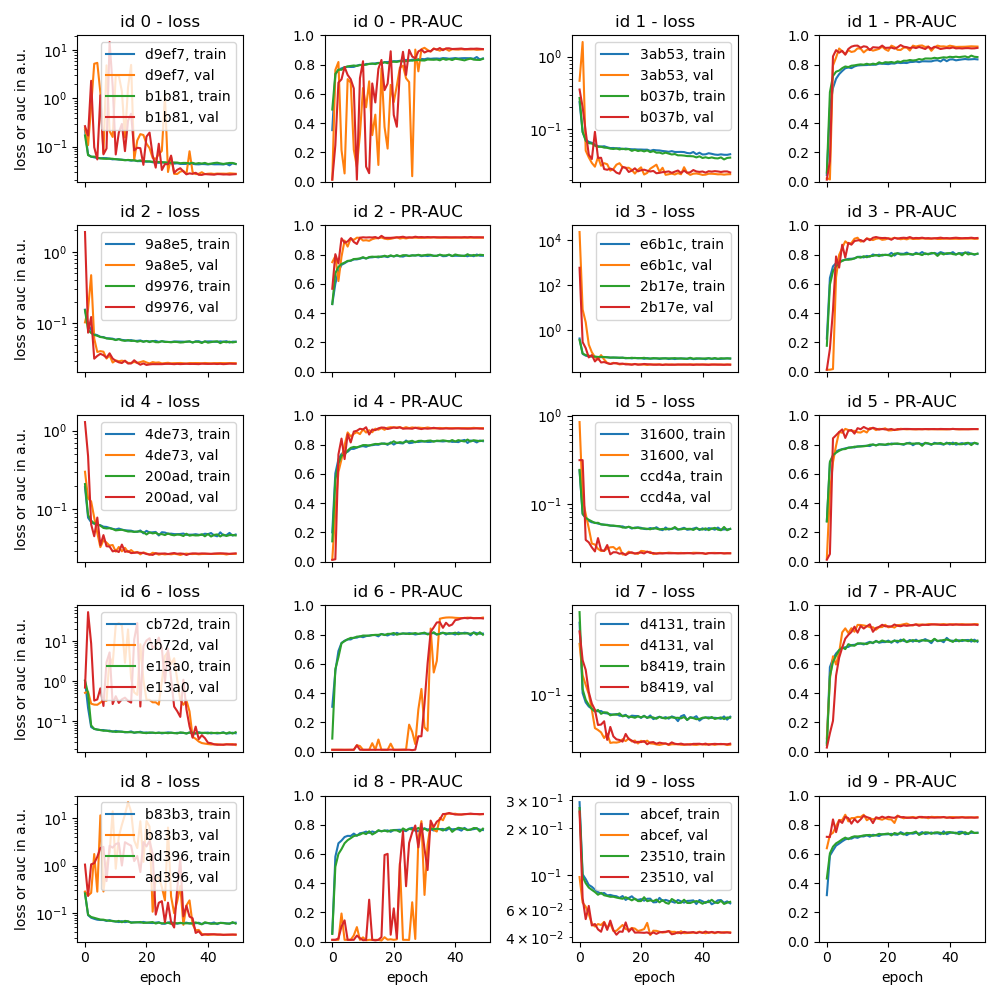
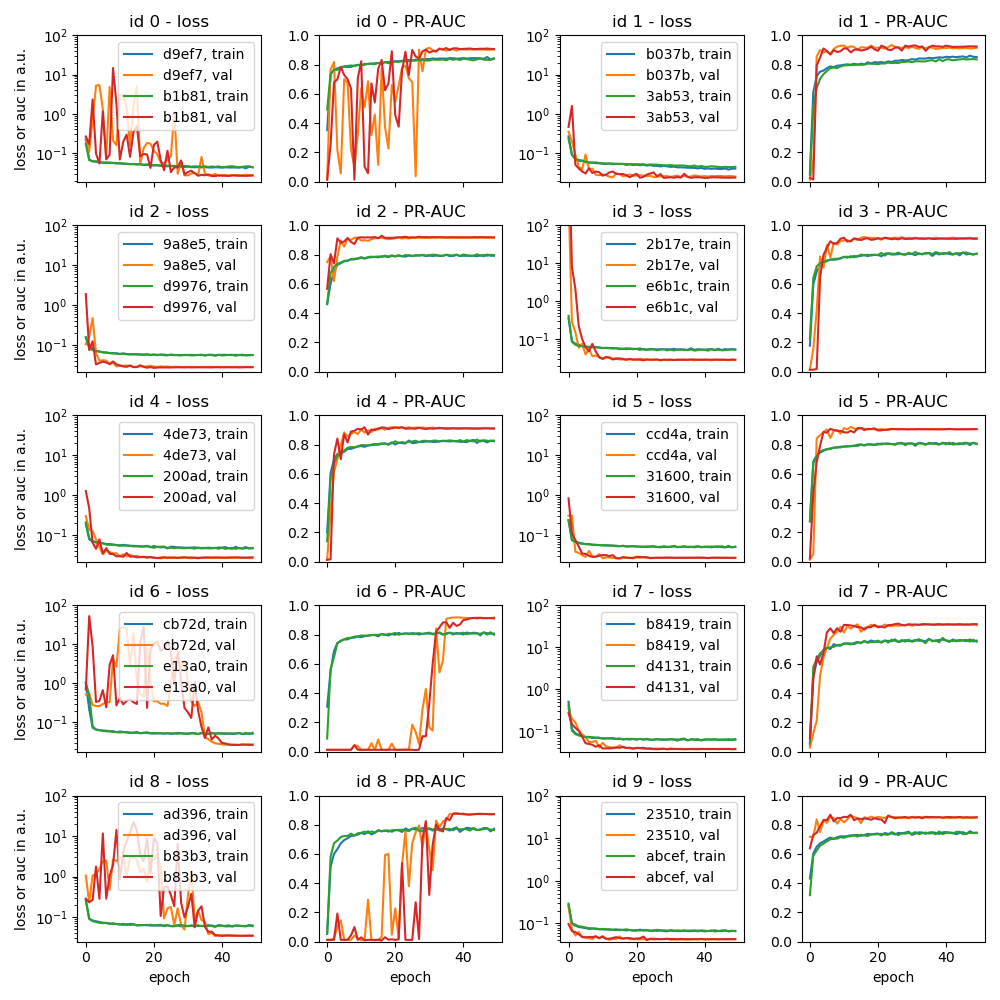
update plots

diff --git a/data/exp-250327-masters/2025-12-19-simulations-segmentation/src-python/plot_classical.py b/data/exp-250327-masters/2025-12-19-simulations-segmentation/src-python/plot_classical.py
@@ -63,25 +63,6 @@ def compute_score(df: pl.DataFrame) -> pl.DataFrame:
     return df
 
 
-def pivot_data(df: pl.DataFrame, col_artifact: str) -> pl.DataFrame:
-    df = (
-        df
-        .unpivot(index=["clean_dmol", "clean_nmol", col_artifact],
-                 on=pl.selectors.matches(
-                     "precision|recall|fbeta2|biniou|meaniou|overlap|score"
-                    ))
-        .with_columns(
-            pl.col.variable
-            .str.replace("t_", "t-")
-            .str.replace("tm_", "tm-")
-            .str.replace("chan_vese", "chan-vese")
-            .str.replace("random_walker", "random-walker")
-            .str.split_exact("_", 1)
-            .struct.rename_fields(["method", "metric"])
-           ).unnest("variable")
-       )
-    return df
-
 def groupby_mean_std(df: pl.DataFrame, metrics: list[str]) -> pl.DataFrame:
     out = pl.DataFrame()
     for i, m in enumerate(metrics):
@@ -103,37 +84,6 @@ def groupby_mean_std(df: pl.DataFrame, metrics: list[str]) -> pl.DataFrame:
             )
         ], how=how)
     return out
-
-
-def score_violin(df: pl.DataFrame) -> None:
-
-    order = (
-        df
-        .filter(pl.col.metric.eq("score"))
-        .group_by("method").agg(pl.col.value.drop_nans().mean())
-        .sort("value", descending=True)
-       )["method"].to_list()
-
-    _, ax = plt.subplots(1, 4, figsize=(12, 10), sharex=True, sharey=True)
-
-    sns.violinplot(
-        df.filter(pl.col.metric.eq("score")), x="value", y="method", cut=0,
-        density_norm="width", order=order, ax=ax[0]
-       ).set_title("score")
-    sns.violinplot(
-        df.filter(pl.col.metric.eq("fbeta2")), x="value", y="method", cut=0,
-        density_norm="width", order=order, ax=ax[1]
-       ).set_title("$F_2$")
-    sns.violinplot(
-        df.filter(pl.col.metric.eq("meaniou")), x="value", y="method", cut=0,
-        density_norm="width", order=order, ax=ax[2]
-       ).set_title("mean IOU")
-    sns.violinplot(
-        df.filter(pl.col.metric.eq("overlap")), x="value", y="method", cut=0,
-        density_norm="width", order=order, ax=ax[3]
-       ).set_title("OVL")
-    for axis in ax:
-        plt.setp(axis, xlabel="", ylabel="")
 
 
 def get_unet_params(
@@ -240,12 +190,91 @@ def plot_loss_auc(
             plt.setp(axl, title=f"id {p} - loss")
             plt.setp(axr, title=f"id {p} - PR-AUC")
 
-    plt.setp(ax[:, 0::2], yscale="log")
+    plt.setp(ax[:, 0::2], yscale="log", ylim=[0, 100])
     plt.setp(ax[:, 1::2], ylim=[0, 1])
     plt.setp(ax.flatten(), xlabel="epoch")
     plt.setp(ax[:, 0], ylabel="loss or auc in a.u.")
     fig.tight_layout()
     fig.align_ylabels()
+    if out_file:
+        out_date = datetime.today().date()
+        plt.savefig(f"{workdir}/jupyter-python/{out_date}-{out_file}.png")
+    else:
+        plt.show()
+
+
+def pivot_data(df: pl.DataFrame, col_artifact: str) -> pl.DataFrame:
+    df = (
+        df
+        .unpivot(index=["clean_dmol", "clean_nmol", col_artifact],
+                 on=pl.selectors.matches("fbeta2|meaniou|overlap|score"))
+        .rename({"clean_nmol": "sim. n", "clean_dmol": "sim. D"})
+        .with_columns(
+            pl.col.variable
+            .str.replace("t_", "t-")
+            .str.replace("tm_", "tm-")
+            .str.replace("chan_vese", "chan-vese")
+            .str.replace("random_walker", "random-walker")
+            .str.split_exact("_", 1)
+            .struct.rename_fields(["method", "metric"])
+        ).unnest("variable")
+        .with_columns(
+            pl.col.method
+            .str.replace("t-mean", "GT: Mean")
+            .str.replace("t-isodata", "GTcluster: Isodata")
+            .str.replace("t-otsu", "GTcluster: Otsu")
+            .str.replace("t-min", "GThist: Minimum")
+            .str.replace("t-triangle", "GThist: Triangle")
+            .str.replace("t-yen", "GTentropy: Yen")
+            .str.replace("t-li", "GTentropy: Li")
+            .str.replace("tm-local", "LT: Local filter")
+            .str.replace("tm-niblack", "LT: Niblack")
+            .str.replace("tm-sauvola", "LT: Sauvola")
+            .str.replace("tm-bradley", "LT: Bradley")
+            .str.replace("watershed", "Watershed")
+            .str.replace("random-walker", "Random Walker")
+            .str.replace("chan-vese", "Chan-Vese")
+        )
+        .with_columns(
+            pl.col.metric
+            .str.replace("fbeta2", "$F2$")
+            .str.replace("meaniou", "mean IOU")
+            .str.replace("overlap", "OVL")
+        )
+    )
+    return df
+
+
+def score_violin(df: pl.DataFrame, out_file: str | None = None) -> None:
+
+    order = (
+        df
+        .filter(pl.col.metric.eq("score"))
+        .group_by("method").agg(pl.col.value.drop_nans().mean())
+        .sort("value", descending=True)
+       )["method"].to_list()
+
+    _, ax = plt.subplots(1, 4, figsize=(10, 10), sharex=True, sharey=True)
+
+    sns.violinplot(
+        df.filter(pl.col.metric.eq("score")), x="value", y="method", cut=0,
+        density_norm="width", order=order, ax=ax[0]
+       ).set_title("score")
+    sns.violinplot(
+        df.filter(pl.col.metric.eq("fbeta2")), x="value", y="method", cut=0,
+        density_norm="width", order=order, ax=ax[1]
+       ).set_title("$F_2$")
+    sns.violinplot(
+        df.filter(pl.col.metric.eq("meaniou")), x="value", y="method", cut=0,
+        density_norm="width", order=order, ax=ax[2]
+       ).set_title("mean IOU")
+    sns.violinplot(
+        df.filter(pl.col.metric.eq("overlap")), x="value", y="method", cut=0,
+        density_norm="width", order=order, ax=ax[3]
+       ).set_title("OVL")
+    for axis in ax:
+        plt.setp(axis, xlabel="", ylabel="")
+
     if out_file:
         out_date = datetime.today().date()
         plt.savefig(f"{workdir}/jupyter-python/{out_date}-{out_file}.png")

diff --git a/data/exp-250327-masters/2025-12-19-simulations-segmentation/src-python/plot_ground_truth.py b/data/exp-250327-masters/2025-12-19-simulations-segmentation/src-python/plot_ground_truth.py
@@ -84,7 +84,7 @@ def get_record(
             .row(idx, named=True))
 
 
-def prepare_grid(n: int) -> tuple[Figure, dict[str, Axes]]:
+def prepare_grid(n: int, small=False) -> tuple[Figure, dict[str, Axes]]:
     gs_kw = dict(height_ratios=[1, 1, 1])
     g1 = ["ts1",]
     g2 = ["lab1",]
@@ -93,8 +93,12 @@ def prepare_grid(n: int) -> tuple[Figure, dict[str, Axes]]:
        g1 = g1 + [f"ts{i}",]
        g2 = g2 + [f"lab{i}",]
        g3 = g3 + [f"seg{i}",]
+    if small:
+        figsize=(4*n, 5)
+    else:
+        figsize=(5*n, 5)
     fig, axd = plt.subplot_mosaic(
-        mosaic=[g1, g2, g3], figsize=(5*n, 5), gridspec_kw=gs_kw,
+        mosaic=[g1, g2, g3], figsize=figsize, gridspec_kw=gs_kw,
         layout="constrained", sharex=True,
     )
     plt.setp([axd[g] for g in g1], ylabel=r"intensity [a.u.]")
@@ -127,7 +131,7 @@ def plot_ground_truth(axd: dict, idx: int, rec: dict) -> None:
     elif rec["subgroup"] == "shallow":
         ts_title = "shallow photobleaching, scale = 0.06...0.1"
     elif rec["subgroup"] == "steep":
-        ts_title = "broad photobleaching, scale = 0.01...0.05"
+        ts_title = "steep photobleaching, scale = 0.01...0.05"
     elif rec["subgroup"] == 0.01:
         ts_title = ("broad peak artifacts\n$D_{{sim}} = 0.01 "
                     "\\frac{{\\mu m^2}}{{s}}$, $n_{{clusters}}=10$")
@@ -162,23 +166,39 @@ def plot_ground_truth(axd: dict, idx: int, rec: dict) -> None:
                        label="0 = no artifact")
     axseg.legend(loc="lower right")
 
-out_date = datetime.today().date()
-df = get_data("2025-05-28-detector-dropout-training.parquet")
-fig, axd = prepare_grid(2)
-plot_ground_truth(axd, 1, get_record(df, 0, "dropout_n", "few"))
-plot_ground_truth(axd, 2, get_record(df, 0, "dropout_n", "many"))
-plt.savefig(f"{workdir}/jupyter-python/{out_date}"
-            "-detector-dropout-ground-truth-ex.png")
-df = get_data("2025-05-28-peak-artifacts-training.parquet")
-fig, axd = prepare_grid(3)
-plot_ground_truth(axd, 1, get_record(df, 4, "peak_dmol", 0.01))
-plot_ground_truth(axd, 2, get_record(df, 3, "peak_dmol", 0.1))
-plot_ground_truth(axd, 3, get_record(df, 0, "peak_dmol", 1.))
-plt.savefig(f"{workdir}/jupyter-python/{out_date}"
-            "-peak-artifacts-ground-truth-ex.png")
-df = get_data("2025-05-28-photobleaching-training.parquet")
-fig, axd = prepare_grid(2)
-plot_ground_truth(axd, 1, get_record(df, 0, "bleach_exp_scale", "steep"))
-plot_ground_truth(axd, 2, get_record(df, 2, "bleach_exp_scale", "shallow"))
-plt.savefig(f"{workdir}/jupyter-python/{out_date}"
-            "-photobleaching-ground-truth-ex.png")
+
+def save_dropout():
+    out_date = datetime.today().date()
+    df = get_data("2025-05-28-detector-dropout-training.parquet")
+    fig, axd = prepare_grid(2)
+    plot_ground_truth(axd, 1, get_record(df, 0, "dropout_n", "few"))
+    plot_ground_truth(axd, 2, get_record(df, 0, "dropout_n", "many"))
+    fig.align_ylabels()
+    fig.tight_layout()
+    plt.savefig(f"{workdir}/jupyter-python/{out_date}"
+                "-detector-dropout-ground-truth-ex.png")
+
+
+def save_peak():
+    out_date = datetime.today().date()
+    df = get_data("2025-05-28-peak-artifacts-training.parquet")
+    fig, axd = prepare_grid(3, small=True)
+    plot_ground_truth(axd, 1, get_record(df, 4, "peak_dmol", 0.01))
+    plot_ground_truth(axd, 2, get_record(df, 3, "peak_dmol", 0.1))
+    plot_ground_truth(axd, 3, get_record(df, 0, "peak_dmol", 1.))
+    fig.align_ylabels()
+    fig.tight_layout()
+    plt.savefig(f"{workdir}/jupyter-python/{out_date}"
+                "-peak-artifacts-ground-truth-ex.png")
+
+
+def save_bleach():
+    out_date = datetime.today().date()
+    df = get_data("2025-05-28-photobleaching-training.parquet")
+    fig, axd = prepare_grid(2)
+    plot_ground_truth(axd, 1, get_record(df, 0, "bleach_exp_scale", "steep"))
+    plot_ground_truth(axd, 2, get_record(df, 2, "bleach_exp_scale", "shallow"))
+    fig.align_ylabels()
+    fig.tight_layout()
+    plt.savefig(f"{workdir}/jupyter-python/{out_date}"
+                "-photobleaching-ground-truth-ex.png")
